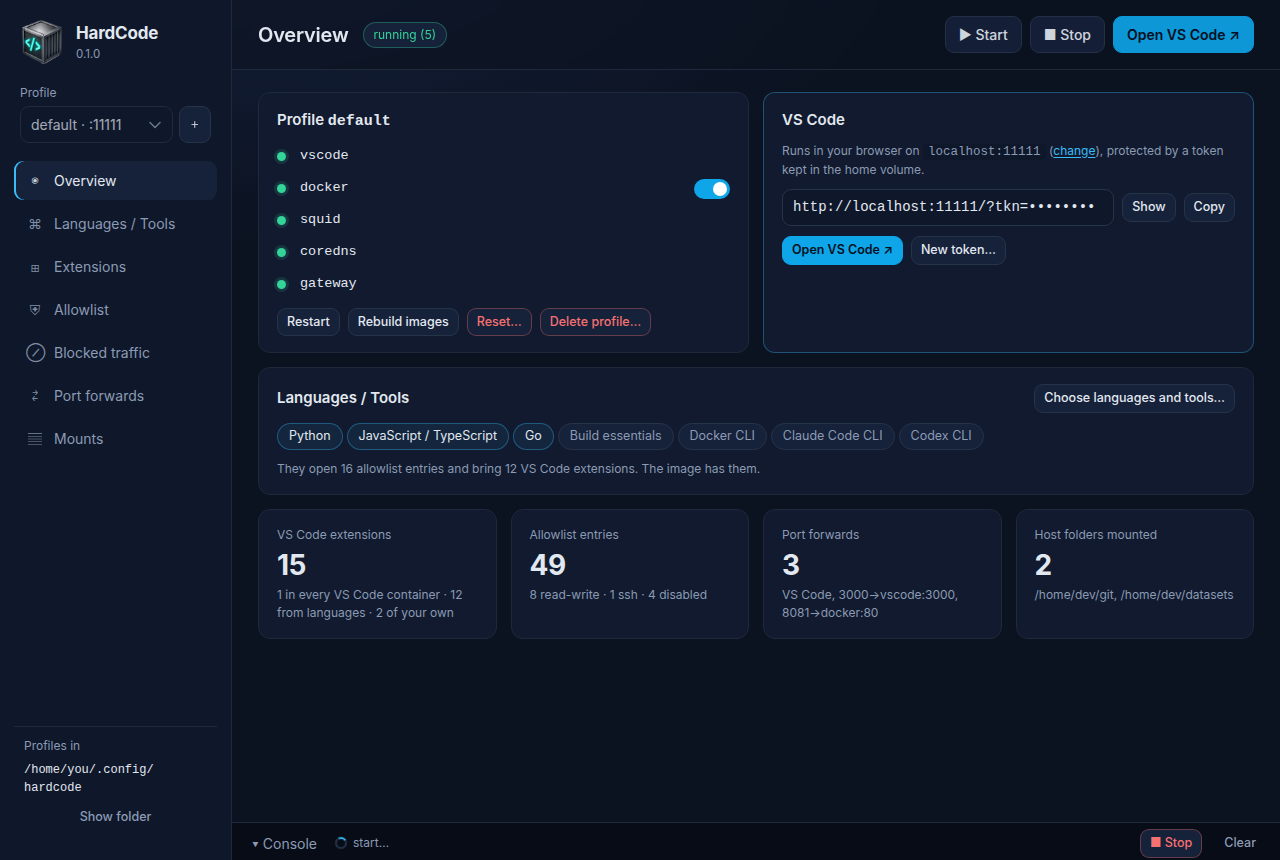
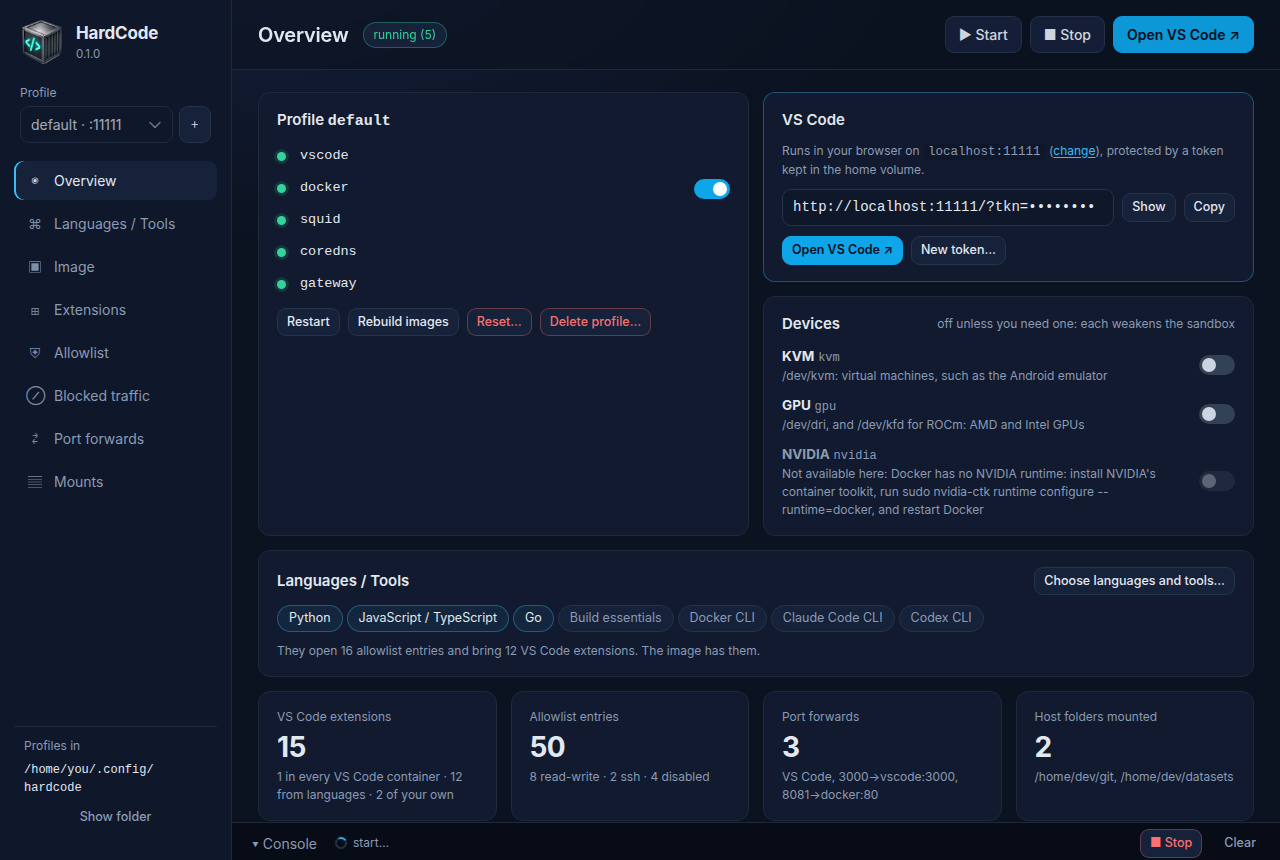
fix(app): a long view scrolls on its own, above the console
The app's grid had one row of automatic height, so a view taller than the
window made the whole window scroll, and the console and the sidebar's
foot went off the bottom until scrolled to. The Devices card makes the
Overview, the first page, that tall. The row is the window's height now
(minmax(0, 1fr)): the view scrolls inside it, as it was meant to, and the
sidebar scrolls when the window is shorter than it. The admin, which
shares the stylesheet and the layout, behaves the same.

- docs: the screenshots again, for the Devices card on the Overview (and
  behind the new profile dialog and the logs) and the console bar at the
  foot of every long view; admin-enrol kept, its QR comes from the admin
  image.

Tests: nothing tests the layout; docs/tools/screenshots.sh ran in the
Playwright container, and the pictures were looked at, the app's and the
admin's.

diff --git a/app/src/styles.css b/app/src/styles.css
@@ -89,9 +89,12 @@ code {
   font-size: 12.5px;
 }
 
+/* One row, the window's height: a view taller than the window scrolls on
+   its own, and the console and the sidebar's foot stay where they are. */
 .app {
   display: grid;
   grid-template-columns: 232px 1fr;
+  grid-template-rows: minmax(0, 1fr);
   height: 100vh;
 }
 
@@ -103,6 +106,7 @@ code {
   flex-direction: column;
   padding: 18px 14px;
   gap: 18px;
+  overflow-y: auto;
 }
 
 .brand {
